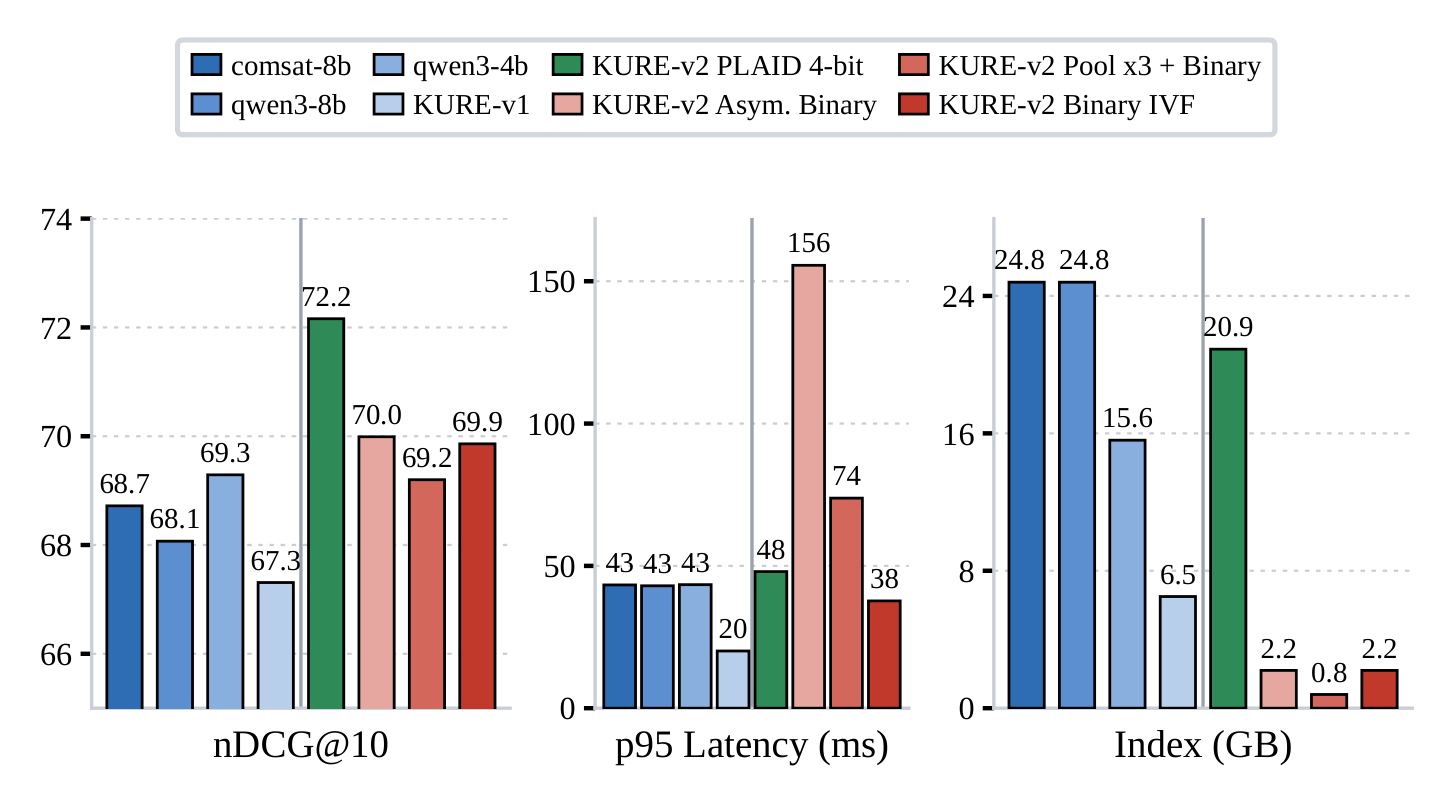
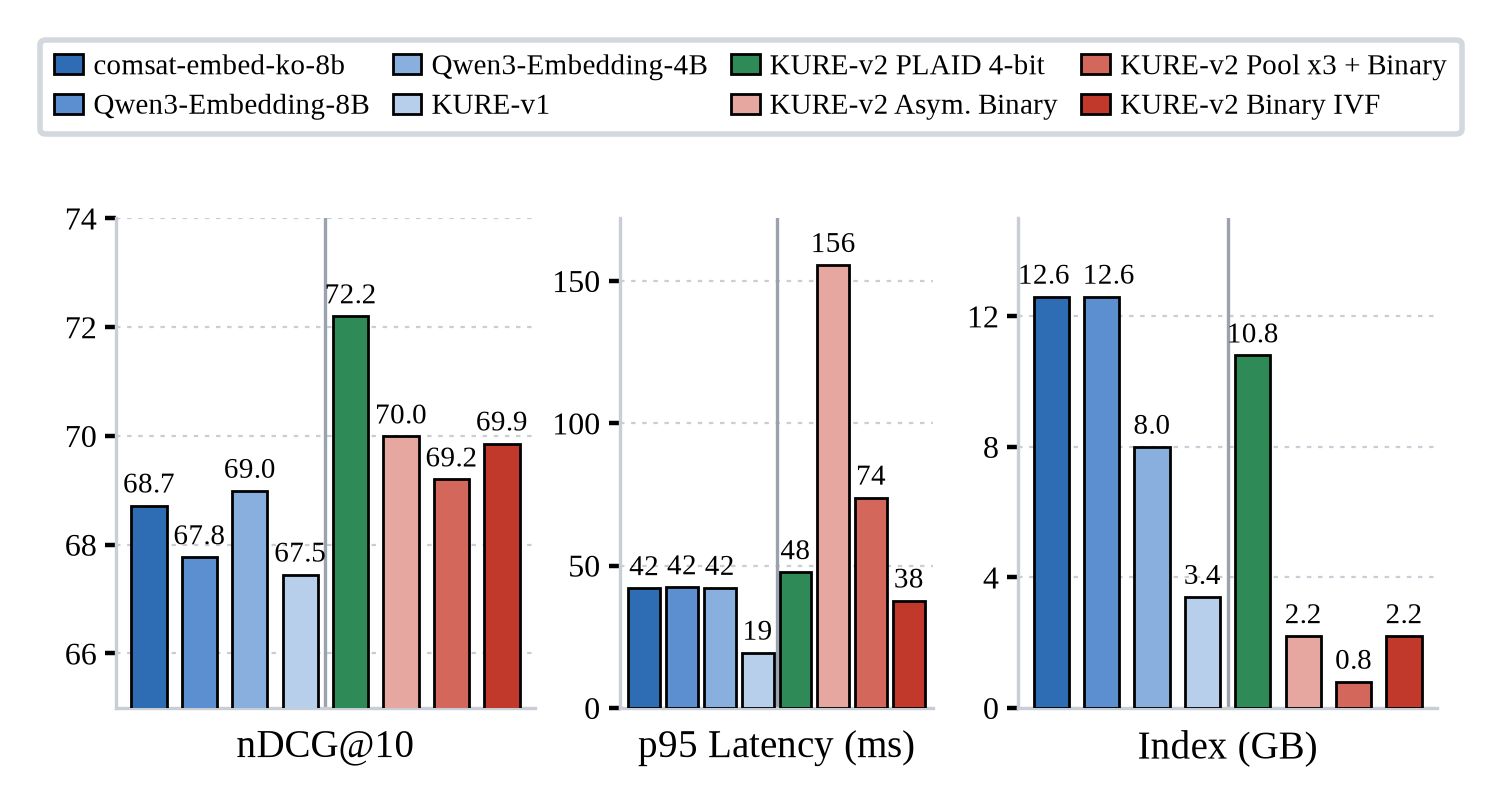
docs: update serving figures and numbers after the index-size re-measurement
Index storage was mis-measured on both sides (PLAID directories counted
fast-plaid's shard + merged copies twice; single-vector HNSW stored fp32).
Both were fixed and re-measured; this updates the README serving sections
(EN/KO) and the two figures to match:

- PLAID 4-bit 47.2 -> 24.2 GB, 8B single-vector HNSW 50.0 -> 25.4 GB
  (fp16 vectors), pooling x2 now lossless, binary 4.8x (was 9.4x),
  single-vector range 7.0-25.4 GB, 44-57 QPS, MIRACL p95 42 ms,
  nbits=2/1 14.2/9.1 GB.
- assets/deploy_overview.png, assets/bigcorpus_miracl.png regenerated
  (full model names, "Single-Vector (fp16, HNSW)" legend, hires).

Claude-Session: https://claude.ai/code/session_012erYDJrGVtkmtt9jLVapq9

Changed region(s): [[0.031, 0.2481, 0.6194, 0.9615], [0.6504, 0.2792, 0.9601, 0.9615], [0.0, 0.031, 0.9911, 0.1861]]

diff --git a/README.md b/README.md
@@ -191,8 +191,8 @@ KURE-v2 is a late-interaction model: each document is stored as a set of token v
 
 Two things the figures show:
 
-- Hierarchical token pooling (x2) halves the index for a 0.04 nDCG drop. Asymmetric binary quantization (1-bit document tokens, bf16 queries) shrinks it 9.4x for 1.05. Stacking the two (pooling x3 + binary), the entire 9-corpus index fits in **1.7 GB, smaller than every single-vector HNSW index (13.1-50.0 GB)**, while still outscoring the best single-vector model (79.57 vs 79.07).
-- A live query arrives as text: 4B-8B single-vector models spend 38-40 ms encoding it, capping them at ~25 QPS no matter how fast HNSW is. KURE-v2 encodes in 13.8 ms (154M params), so every configuration except MUVERA serves **43-55 QPS, roughly 2x the 8B single-vector models, at higher quality**.
+- Hierarchical token pooling (x2) halves the index (24.2 -> 12.5 GB) with no measurable nDCG loss. Asymmetric binary quantization (1-bit document tokens, bf16 queries) shrinks it 4.8x for 0.98. Stacking the two (pooling x3 + binary), the entire 9-corpus index fits in **1.7 GB, smaller than every single-vector HNSW index (7.0-25.4 GB, fp16 vectors)**, while still outscoring the best single-vector model (79.57 vs 79.10).
+- A live query arrives as text: 4B-8B single-vector models spend 38-40 ms encoding it, capping them at ~25 QPS no matter how fast HNSW is. KURE-v2 encodes in 13.8 ms (154M params), so every configuration except MUVERA serves **44-57 QPS, roughly 2x the 8B single-vector models, at higher quality**.
 
 ### Large corpora: tail latency
 
@@ -200,7 +200,7 @@ Two things the figures show:
   <img src="assets/bigcorpus_miracl.png" width="70%" alt="MIRACL (1.5M docs): quality, e2e p95 latency, index size">
 </p>
 
-On the largest corpus (MIRACL, ~1.5M documents) an exhaustive 1-bit scan costs O(corpus): p95 climbs to 156 ms, and pooling the tokens 3x only brings it to 74 ms. Generating candidates with faiss [BinaryIVF](https://faiss.ai/cpp_api/struct/structfaiss_1_1IndexBinaryIVF.html) (Hamming search over the same 1-bit index) and re-scoring them with exact asymmetric MaxSim cuts p95 to **38 ms on the same 2.2 GB index, lower tail latency than the 4B-8B single-vector baselines (43 ms) at higher nDCG**. For large collections, use a candidate-generating index (PLAID or BinaryIVF), not an exhaustive scan.
+On the largest corpus (MIRACL, ~1.5M documents) an exhaustive 1-bit scan costs O(corpus): p95 climbs to 156 ms, and pooling the tokens 3x only brings it to 74 ms. Generating candidates with faiss [BinaryIVF](https://faiss.ai/cpp_api/struct/structfaiss_1_1IndexBinaryIVF.html) (Hamming search over the same 1-bit index) and re-scoring them with exact asymmetric MaxSim cuts p95 to **38 ms on the same 2.2 GB index, lower tail latency than the 4B-8B single-vector baselines (42 ms) at higher nDCG**. For large collections, use a candidate-generating index (PLAID or BinaryIVF), not an exhaustive scan.
 
 <details>
 <summary><b>Measurement details</b></summary>
@@ -208,11 +208,11 @@ On the largest corpus (MIRACL, ~1.5M documents) an exhaustive 1-bit scan costs O
 - **Hardware**: 1x NVIDIA A100 80GB, 2x AMD EPYC 7513 (64 cores), 1.2 TB RAM.
 - **Software**: faiss-cpu 1.15.0, fast-plaid 1.6.0, sentence-transformers 6.0.0, PyTorch 2.8.0.
 - **Protocol**: batch-1, serial. Index-search latency: 10 warmup queries, then every query of the task measured once (QPS = 1/mean). Query-encoding latency: 5 warmup, 50 measured. End-to-end = encoding + search.
-- **Precision**: encoding in bf16; each index stores its own format (HNSW fp32, PLAID 4-bit residuals, binary 1-bit).
-- **Index size**: the full serialized index on disk (vectors, graph, codebooks; external doc-id mapping excluded).
+- **Precision**: encoding in bf16; each index stores its own format (HNSW fp16 vectors, PLAID 4-bit residuals, binary 1-bit).
+- **Index size**: the full serialized index on disk (vectors, graph, codebooks; external doc-id mapping excluded). PLAID indexes are frozen (fast-plaid `freeze()`): the merged search-time codes/residuals only, without the per-shard build copies or the raw embeddings fast-plaid keeps for corpora of <= 1,000 documents.
 - **Tasks**: the 9 Korean MTEB retrieval tasks; MLDR is the mean of its dev/test splits; nDCG@10 x100.
-- **HNSW**: `IndexHNSWFlat` (inner product on L2-normalized embeddings), M=32, efConstruction=200, efSearch=64.
-- **PLAID**: nbits=4, all other settings fast-plaid defaults (kmeans_niters=4, n_ivf_probe=8, n_full_scores=4096). nbits=2/1 give 27.0/17.0 GB at 81.25/81.09 nDCG.
+- **HNSW**: `IndexHNSWSQ` with fp16-stored vectors (inner product on L2-normalized embeddings; lossless for the bf16 embeddings), M=32, efConstruction=200, efSearch=64.
+- **PLAID**: nbits=4, all other settings fast-plaid defaults (kmeans_niters=4, n_ivf_probe=8, n_full_scores=4096). nbits=2/1 give 14.2/9.1 GB at 81.40/80.70 nDCG.
 - **MUVERA**: num_repetitions=10, num_simhash_projections=6, final_projection_dimension=8192, exact-MaxSim rerank of the top 1,000.
 - **BinaryIVF**: nlist=floor(sqrt(total tokens)) capped at 65,536, nprobe=32, top-128 Hamming tokens per query token, exact asymmetric-MaxSim rerank of the top 1,000 documents.
 - **Token pooling**: hierarchical (Ward linkage), pool_factor 2-3, documents only.
